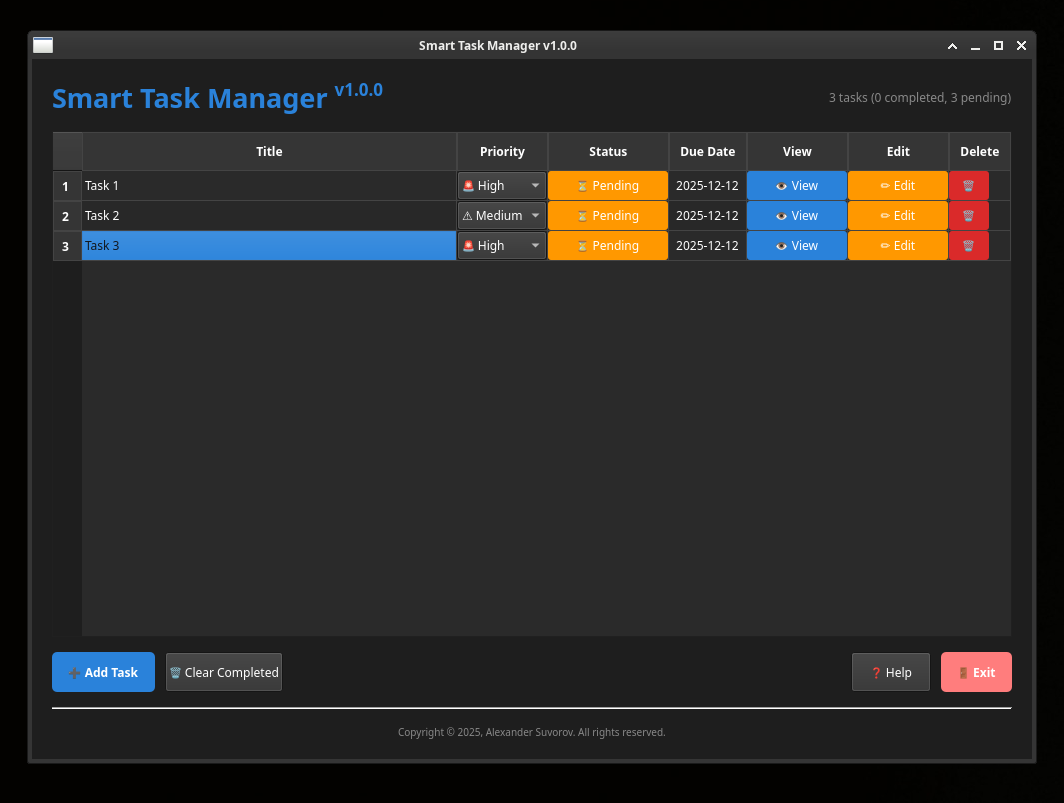
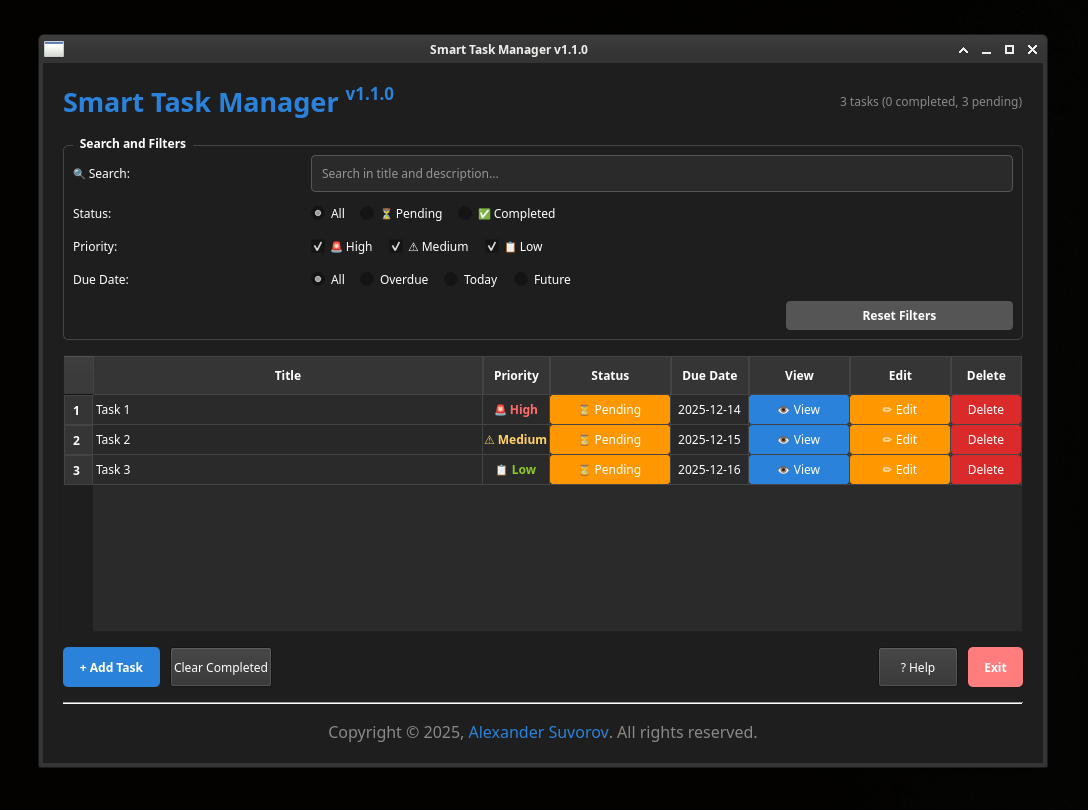
Smart Task Manager v1.1.1

diff --git a/core/main.py b/core/main.py
@@ -29,13 +29,23 @@ class TaskInputDialog(QDialog):
 
         title_group = QGroupBox("Task Title")
         title_layout = QVBoxLayout()
+
         self.title_label = QLabel('Task Title:')
         title_layout.addWidget(self.title_label)
+
         self.title_input = QLineEdit(self)
-        self.title_input.setPlaceholderText("Enter task title")
+        self.title_input.setPlaceholderText("Enter task title (max 100 characters)")
+        self.title_input.setMaxLength(100)
         if task:
             self.title_input.setText(task.title)
         title_layout.addWidget(self.title_input)
+
+        self.char_counter = QLabel("100/100 characters remaining")
+        self.char_counter.setAlignment(Qt.AlignRight)
+        self.char_counter.setStyleSheet("color: #888; font-size: 10px;")
+        self.title_input.textChanged.connect(self.update_char_counter)
+        title_layout.addWidget(self.char_counter)
+
         title_group.setLayout(title_layout)
         self.layout.addWidget(title_group)
 
@@ -93,6 +103,19 @@ class TaskInputDialog(QDialog):
         self.submit_button.setStyleSheet("background-color: #2a82da; color: white;")
         button_layout.addWidget(self.submit_button)
         self.layout.addLayout(button_layout)
+
+    def update_char_counter(self):
+        current_length = len(self.title_input.text())
+        remaining = 100 - current_length
+
+        self.char_counter.setText(f"{remaining}/100 characters remaining")
+
+        if remaining <= 10:
+            self.char_counter.setStyleSheet("color: #ff6b6b; font-size: 10px; font-weight: bold;")
+        elif remaining <= 30:
+            self.char_counter.setStyleSheet("color: #ffa726; font-size: 10px;")
+        else:
+            self.char_counter.setStyleSheet("color: #888; font-size: 10px;")
 
     def get_inputs(self):
         priority_map = {"High": 1, "Medium": 2, "Low": 3}
@@ -192,7 +215,7 @@ class TaskDisplayDialog(QDialog):
 class MainWindow(QWidget):
     def __init__(self, parent=None):
         super().__init__(parent)
-        self.setWindowTitle('Smart Task Manager v1.1.0')
+        self.setWindowTitle('Smart Task Manager v1.1.1')
         self.resize(1000, 700)
 
         self.todo_manager = TaskManager()
@@ -203,7 +226,7 @@ class MainWindow(QWidget):
         self.main_layout.setContentsMargins(20, 20, 20, 20)
 
         header_layout = QHBoxLayout()
-        self.label_logo = QLabel('Smart Task Manager <sup>v1.1.0</sup>')
+        self.label_logo = QLabel('Smart Task Manager <sup>v1.1.1</sup>')
         font = QFont()
         font.setPointSize(20)
         font.setBold(True)
@@ -219,7 +242,7 @@ class MainWindow(QWidget):
 
         self.main_layout.addLayout(header_layout)
 
-        search_group = QGroupBox("Search & Filter")
+        search_group = QGroupBox("Search and Filters")
         search_group.setStyleSheet("""
             QGroupBox {
                 font-weight: bold;
@@ -750,6 +773,23 @@ class MainWindow(QWidget):
                 )
                 return
 
+            if len(inputs["title"]) > 100:
+                QMessageBox.warning(
+                    self,
+                    'Title Too Long',
+                    'Task title cannot exceed 100 characters.\n'
+                    f'Current length: {len(inputs["title"])} characters.'
+                )
+                return
+
+            if len(inputs["title"]) < 3:
+                QMessageBox.warning(
+                    self,
+                    'Title Too Short',
+                    'Task title must be at least 3 characters long.'
+                )
+                return
+
             updated_task = Task(
                 id=task.id,
                 title=inputs["title"],
@@ -860,6 +900,23 @@ class MainWindow(QWidget):
                 )
                 return
 
+            if len(inputs["title"]) > 100:
+                QMessageBox.warning(
+                    self,
+                    'Title Too Long',
+                    'Task title cannot exceed 100 characters.\n'
+                    f'Current length: {len(inputs["title"])} characters.'
+                )
+                return
+
+            if len(inputs["title"]) < 3:
+                QMessageBox.warning(
+                    self,
+                    'Title Too Short',
+                    'Task title must be at least 3 characters long.'
+                )
+                return
+
             task_id = str(uuid.uuid4())
             task = Task(
                 id=task_id,
@@ -913,7 +970,7 @@ class MainWindow(QWidget):
         QMessageBox.information(
             self,
             'Smart Task Manager Help',
-            '<h3>Smart Task Manager v1.1.0</h3>'
+            '<h3>Smart Task Manager v1.1.1</h3>'
             '<p><b>Features:</b></p>'
             '<ul>'
             '<li>Create tasks with title, description, priority, and due date</li>'

diff --git a/README.md b/README.md
@@ -1,4 +1,4 @@
-# Smart Task Manager <sup>v1.1.0</sup>
+# Smart Task Manager <sup>v1.1.1</sup>
 
 A modern desktop task management application built with Python and PyQt5, featuring an 
 intuitive dark theme interface, priority-based organization, and automatic data persistence.
@@ -31,7 +31,6 @@ priority management, due date tracking, and automatic saving, it's the perfect t
 
 ### 🎯 Priority System
 - **Three priority levels**: 🚨 High, ⚠ Medium, 📋 Low
-- **Dynamic priority changes** directly from the task table
 - **Color-coded visual indicators** for quick identification
 
 ### ✅ Task Status
@@ -76,7 +75,7 @@ cd smart-task-manager
 
 2. **Install required dependencies**
 ```bash
-pip install PyQt5
+pip install -r requirements.txt
 ```
 
 3. **Run the application**
@@ -103,7 +102,6 @@ git clone https://github.com/smartlegionlab/smart-task-manager.git && cd smart-t
 3. Click **"Create Task"**
 
 ### Managing Tasks
-- **Change Priority**: Click the priority dropdown in the table
 - **Toggle Completion**: Click the status button (⏳/✅)
 - **View Details**: Click the "👁 View" button
 - **Edit Task**: Click the "✏ Edit" button
@@ -219,7 +217,7 @@ pyinstaller --onefile --windowed --name "smart_task_manager.exe --additional-hoo
 2. Right-click `smart_task_manager.exe`
 3. Select "Create shortcut"
 4. Drag shortcut to desktop
-5. Rename shortcut to "Smart Pass Manager"
+5. Rename shortcut to "Smart Task Manager"
 6. Double-click to start
 
 
